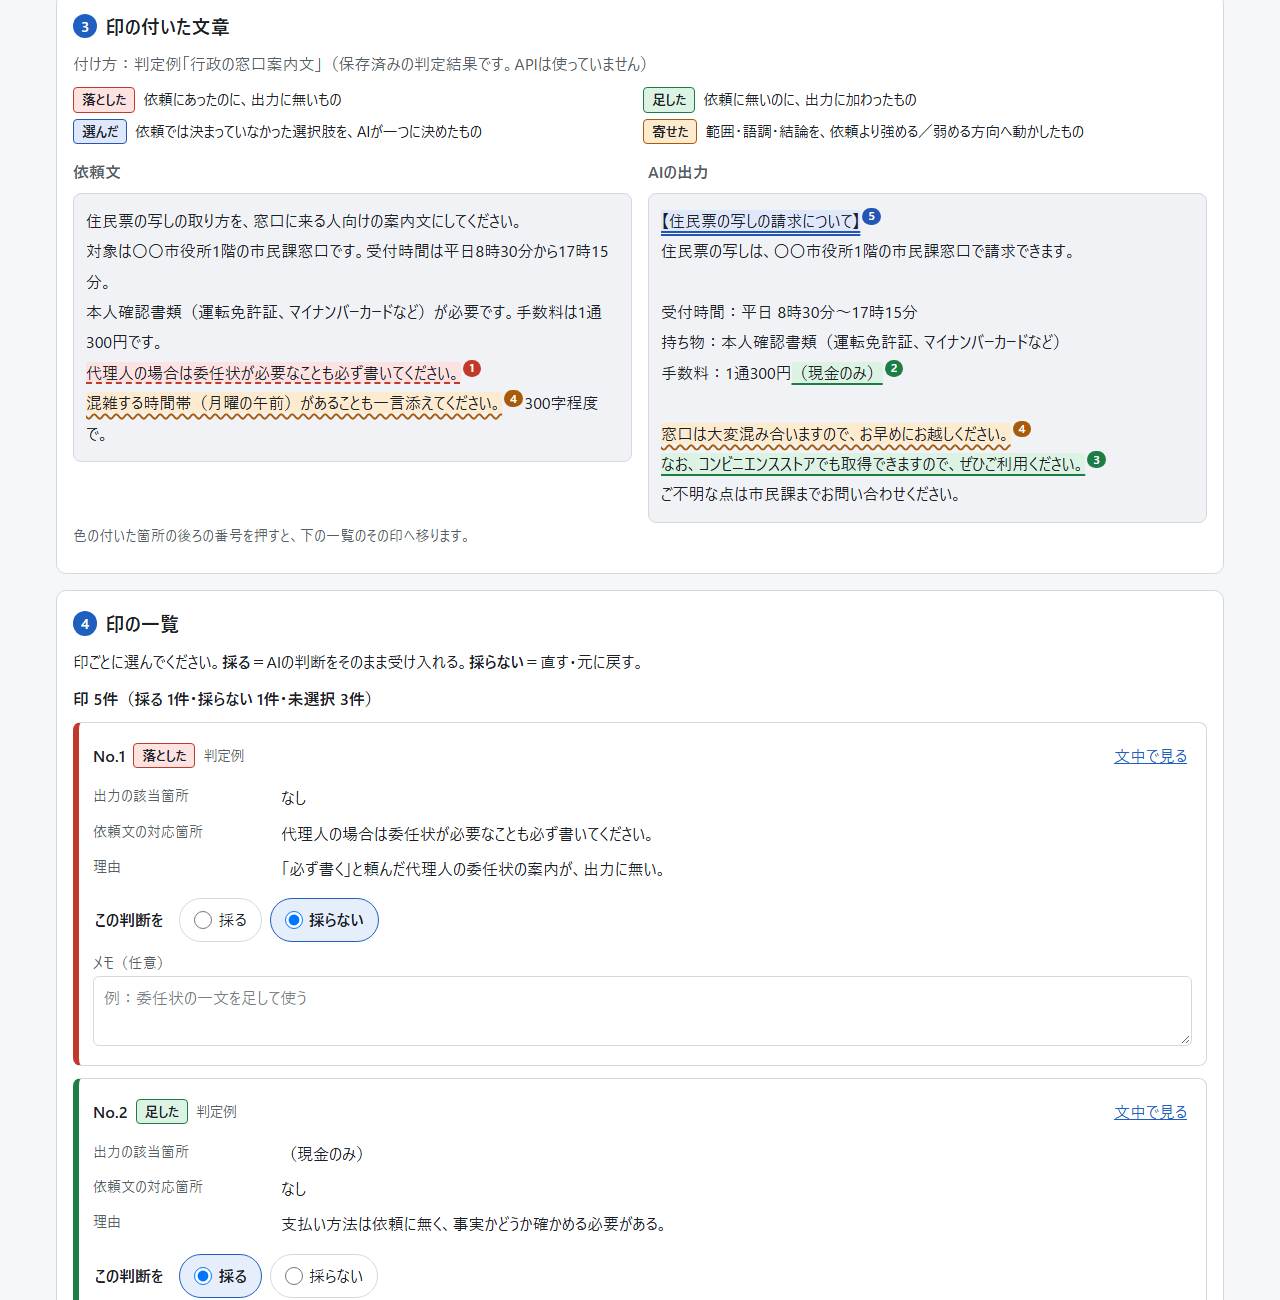
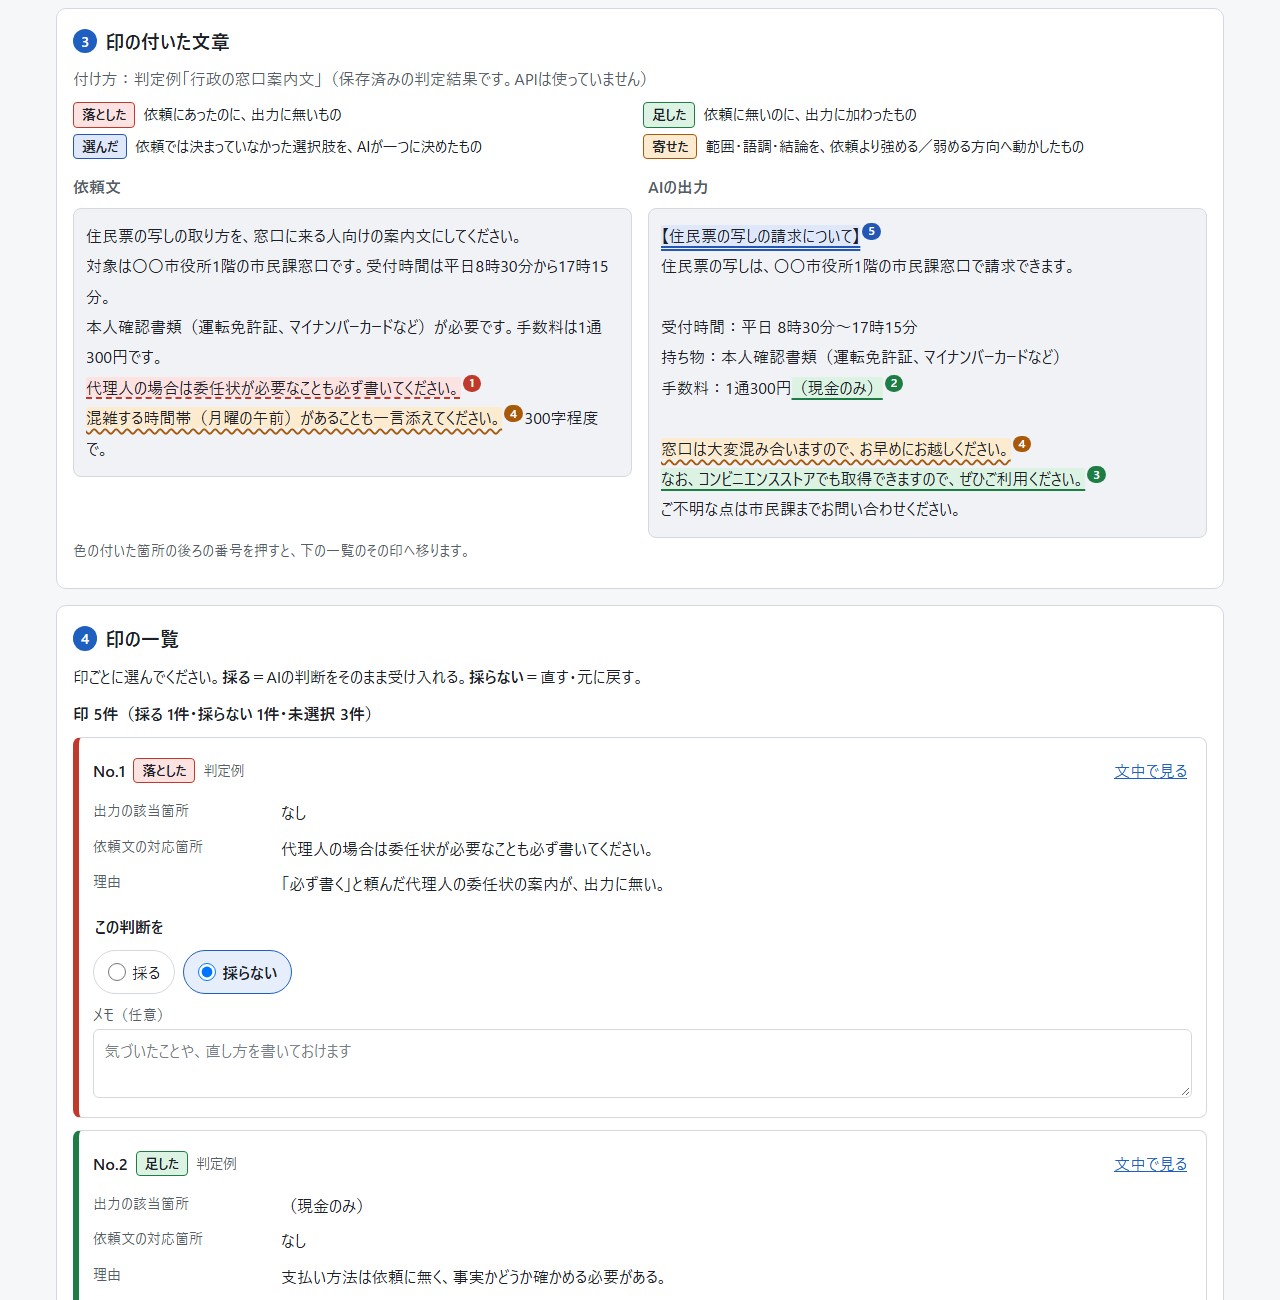
スマホでの「採る／採らない」の並びとメモ欄の例文を直す、画面写真の幅を固定 v0.3.0

diff --git a/index.html b/index.html
@@ -7,7 +7,7 @@
   <meta name="referrer" content="no-referrer">
   <meta name="color-scheme" content="light dark">
   <title>AIが決めたことチェック</title>
-  <link rel="stylesheet" href="assets/style.css?v=0.2.0">
+  <link rel="stylesheet" href="assets/style.css?v=0.3.0">
 </head>
 <body>
   <a class="skip" href="#main">本文へ移動</a>
@@ -136,8 +136,8 @@
     </div>
   </footer>
 
-  <script src="assets/audit-core.js?v=0.2.0"></script>
-  <script src="assets/examples.js?v=0.2.0"></script>
-  <script src="assets/app.js?v=0.2.0"></script>
+  <script src="assets/audit-core.js?v=0.3.0"></script>
+  <script src="assets/examples.js?v=0.3.0"></script>
+  <script src="assets/app.js?v=0.3.0"></script>
 </body>
 </html>

diff --git a/assets/style.css b/assets/style.css
@@ -247,7 +247,7 @@ button:not(:disabled):hover { filter: brightness(1.08); }
 .mark-card dd { margin: 0 0 6px; overflow-wrap: anywhere; white-space: pre-wrap; }
 .mark-card .notfound { color: var(--error-text); font-size: .85rem; white-space: normal; }
 .decision { border: none; padding: 0; margin: 0 0 8px; display: flex; flex-wrap: wrap; gap: 8px; align-items: center; }
-.decision legend { float: left; margin-right: 6px; font-weight: 600; }
+.decision legend { float: left; width: 100%; margin-bottom: 2px; font-weight: 600; }
 .decision label {
   display: inline-flex; align-items: center; gap: 6px; cursor: pointer;
   padding: 6px 14px; border: 1px solid var(--border); border-radius: 999px; min-height: 44px;

diff --git a/test/shot.js b/test/shot.js
@@ -2,6 +2,8 @@
   'use strict';
   var params = new URLSearchParams(location.search);
   var frame = document.getElementById('app');
+  // 画面なしのブラウザは狭い窓を作れないことがあるため、幅は iframe で固定する（?w=375）
+  if (params.get('w')) frame.style.width = params.get('w') + 'px';
   frame.addEventListener('load', function () {
     var d = frame.contentDocument;
     var w = frame.contentWindow;

diff --git a/assets/app.js b/assets/app.js
@@ -393,7 +393,7 @@
         ]);
       }
       var memoId = 'memo-' + m.id;
-      var memo = el('textarea', { id: memoId, rows: '2', placeholder: '例：委任状の一文を足して使う' });
+      var memo = el('textarea', { id: memoId, rows: '2', placeholder: '気づいたことや、直し方を書いておけます' });
       memo.value = m.memo;
       memo.addEventListener('input', function () { m.memo = memo.value; });
 

diff --git a/assets/audit-core.js b/assets/audit-core.js
@@ -5,7 +5,7 @@
 (function (global) {
   'use strict';
 
-  var APP_VERSION = '0.2.0';
+  var APP_VERSION = '0.3.0';
   var MODEL = 'claude-sonnet-5-5';
   var API_URL = 'https://api.anthropic.com/v1/messages';
   var MAX_TOKENS = 8000;

diff --git a/test/run_tests.py b/test/run_tests.py
@@ -94,6 +94,7 @@ def take_shots(browser, base, profile):
         if dark:
             args.append("--force-dark-mode")
             args.append("--blink-settings=preferredColorScheme=0")
+        query = f"w={width}&{query}"
         headless(browser, args + [f"{base}/test/shot.html?{query}"], profile)
         print(("  撮影 " if out.exists() else "  失敗 ") + str(out.relative_to(ROOT)))
     # README 用の2枚
